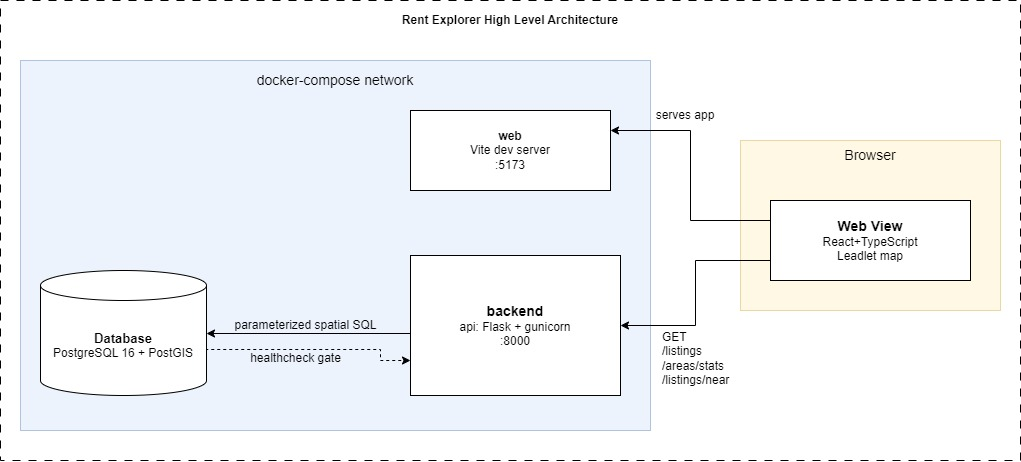
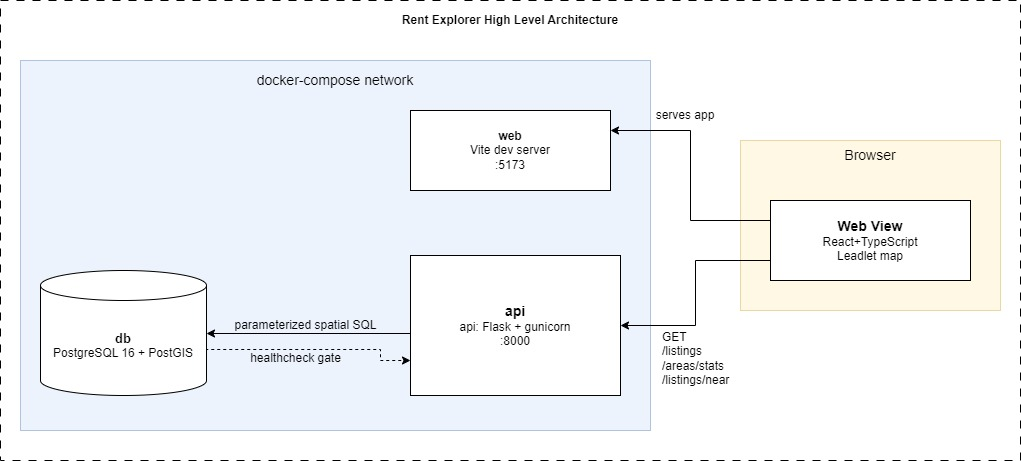
doc: root readme updated with repository cleanup

diff --git a/README.md b/README.md
@@ -1,33 +1,197 @@
-# rent-explorer
-A mini **location-intelligence** tool for the Helsinki metro rental market: an interactive map that lets a non technical user explore ~850 rental listings, filter them, and see how price varies by area.
+# Rent Explorer
 
-# Rent Explorer — Project Context & Conventions
+Interactive map of ~850 Helsinki-metro rental listings: filter by rent / rooms / type, and read median €/m² by area from a choropleth.
 
-## What this is
-A mini location-intelligence tool: an interactive map of ~850 Helsinki-metro
-rental listings that a non-technical user can explore, filter, and use to see how
-price varies by area. Built for a Senior Full-Stack take-home.
-
-## Stack
-- **Backend:** Python + Flask, served by gunicorn.
-- **Database:** PostgreSQL 16 + PostGIS (spatial types, functions, GiST indexes).
-- **DB access:** SQLAlchemy 2.0 + GeoAlchemy2 (ORM models for the tables; endpoint
-  queries written as parameterized `text()` SQL for transparency).
-- **API docs:** Swagger UI via flasgger (`/apidocs`), from YAML docstrings on routes.
-- **Frontend:** React + TypeScript + Vite; Leaflet (react-leaflet) map;
-  TanStack Query for data fetching; d3-scale for the choropleth color scale.
-- **Run:** Docker + docker-compose brings up db + api + web with one command.
+**Stack:** Python + Flask (gunicorn) · PostgreSQL 16 + PostGIS · SQLAlchemy 2.0 + GeoAlchemy2 · React + TypeScript + Vite · Leaflet · TanStack Query.
 
 
-# Architecture
+
+## Architecture Overview
 
 ![Architecture diagram](diagram/architecture.jpg)
 
+Three services, orchestrated by `docker compose`:
 
-- `db` stores listings as `geometry(Point,4326)` and areas as
-  `geometry(Polygon,4326)`, each with a GiST spatial index.
-- `api` exposes three read-only REST endpoints over the spatial data.
-- `web` renders the map: clustered listing pins, an area choropleth + legend,
-  filters, popups, and a live summary panel.
-- Area membership is a **spatial** point-in-polygon join (`ST_Contains`), NOT a
-  foreign key — correct even if boundaries change.
+| Service | Role |
+|---|---|
+| **`db`** | PostgreSQL + PostGIS. Listings as `geometry(Point,4326)`, areas as `geometry(Polygon,4326)`, both GiST-indexed. |
+| **`api`** | Flask. Loads + cleans the data on startup, then serves three read-only REST endpoints. |
+| **`web`** | React + Vite. Map with listing pins, area choropleth + legend, filters, popups, summary panel. |
+
+#
+
+## Getting Started
+
+### 0. Prerequisites
+
+- **Docker Desktop**, running.
+- The two source data files — not committed to git (see [Setup](#setup)).
+- *(Optional)* Node.js, for editor tooling outside the container.
+
+
+### 1. Add the data files
+
+`listings.csv` and `helsinki_areas.geojson` are gitignored and must be supplied manually. Place them in `data/` at the repo root:
+
+```
+data/
+├── listings.csv            # ~850 rental listings
+└── helsinki_areas.geojson  # 12 area polygons
+```
+
+### 2. Configure (optional)
+
+Defaults cover local use. To override, copy the template, see [Configuration](#configuration) for more details.
+
+```bash
+cp .env.example .env
+```
+
+
+### 3. Running the app
+
+```bash
+docker compose up --build -d
+```
+
+| Application | URL |
+|---|---|
+| Webapp (map UI) | http://localhost:5173 |
+| API Backend  | http://localhost:8000 |
+| API Documentation| http://localhost:8000/apidocs |
+
+
+#
+
+## Configuration
+
+It is recommended to use all configuration via environment variables. 
+
+`docker compose` reads `.env` from the repo root (gitignored) and substitutes it into `docker-compose.yml`. `.env.example` is the committed reference. Every variable also has a `${VAR:-default}` fallback in compose, so the stack runs with no `.env` — the defaults below are **local-development values only**.
+
+| Variable | Default | Purpose |
+|---|---|---|
+| `POSTGRES_USER` | `rentdbuser` | Database user |
+| `POSTGRES_PASSWORD` | `rentStrongPassword` | Database password |
+| `POSTGRES_DB` | `rentexplorer` | Database name |
+| `DB_PORT` | `5432` | Host port → Postgres |
+| `API_PORT` | `8000` | Host port → API |
+| `WEB_PORT` | `5173` | Host port → frontend |
+| `VITE_API_URL` | `http://localhost:8000` | API base URL the browser calls |
+| `CORS_ORIGINS` | `http://localhost:5173,http://localhost:3000` | Origins the API accepts |
+
+`DATABASE_URL` is derived from `POSTGRES_USER/PASSWORD/DB` inside compose, so the credentials have a single source and can't drift between `db` and `api`.
+
+> **Production:** supply secrets from a secret manager, restrict `CORS_ORIGINS` to the real frontend origin, set `VITE_API_URL` to the public API URL, and serve a static `vite build` behind a CDN instead of the dev server.
+
+#
+
+## How it works
+
+### Data model
+
+Two spatial tables, joined by geometry — there is no `area_code` foreign key on `listings`. Area membership is resolved at query time via `ST_Contains`, so it stays correct if boundaries change.
+
+```mermaid
+erDiagram
+    AREAS ||--o{ LISTINGS : "ST_Contains(area.geom, listing.geom)"
+    AREAS {
+        text area_code PK
+        text area_name
+        geometry_Polygon_4326 geom "GiST index"
+    }
+    LISTINGS {
+        text listing_id PK
+        integer rooms "nullable"
+        numeric size_m2 "nullable"
+        integer rent_eur "nullable"
+        text property_type "apartment|studio|townhouse"
+        date listed_date
+        geometry_Point_4326 geom "GiST index, NOT NULL"
+    }
+```
+
+### API reference
+
+| Method | Path | Purpose |
+|---|---|---|
+| GET | `/listings` | Filter by map **bbox** (`min_lng,min_lat,max_lng,max_lat`) + `rent_min`, `rent_max`, `rooms`, `property_type`. |
+| GET | `/areas/stats` | **GeoJSON** FeatureCollection: per-area `median_rent`, `median_eur_per_m2`. |
+| GET | `/listings/near` | Listings within `radius_m` of `lat,lng`, nearest first. |
+| GET | `/health` | Liveness + DB check. |
+
+```
+GET /listings?min_lng=24.90&min_lat=60.15&max_lng=25.00&max_lat=60.25
+GET /listings?rent_min=1000&rent_max=1500&property_type=apartment
+GET /listings/near?lat=60.17&lng=24.94&radius_m=1000
+```
+
+Interactive docs at `/apidocs`.
+
+### Data cleaning
+
+Cleaning runs once at load time and logs every decision. Rule: **no usable coordinate → drop; missing attribute → keep** (SQL aggregates skip the `NULL`). Load result: `849 inserted, 1 dropped, 3 kept-with-null`.
+
+| Row | Issue | Action |
+|---|---|---|
+| `L0780` | latitude `61.05`, ~83 km north of the metro | Dropped |
+| `L0452` | missing `rooms` | Kept; `rooms = NULL` |
+| `L0490` | missing `rent_eur` | Kept; excluded from rent medians |
+| `L0687` | missing `size_m2` | Kept; excluded from €/m² |
+
+
+
+## Design decisions
+
+
+| Decision | Why | Trade-off |
+|---|---|---|
+| **Flask** over FastAPI | Matches the platform stack | No auto API docs, added Swagger manually, additional time and efforts were the trade-offs |
+| **`text()` SQL** over ORM query chains | Keeps the PostGIS calls visible and easy to follow | Less ORM abstraction |
+| **Swagger via flasgger** (not required) | Self-documenting, try-it-live API at `/apidocs` | Extra dependency |
+| **gunicorn**, not the Flask dev server | Production-grade WSGI server | — |
+| **Frontend runs inside `docker compose`**, not a separate host `npm` server | One command (`docker compose up`) brings up db + api + web; reviewer needs no local Node, no version drift, startup order handled by `depends_on` | Runs the Vite dev server in-container (hot reload via mounted volume), not a static production build |
+| **Listings as the primary layer**, choropleth as a faint background tint | User's main question is "where are the listings"; price is supporting context | Exact area price is less prominent (opacity slider restores it) |
+| **Cluster listings when zoomed out** | ~850 pins overlap into an unreadable blob at metro zoom; clusters show counts and split apart as you zoom in | Individual pins only appear once zoomed in |
+
+### One non-trivial decision
+
+**I clean the messy rows once at load time, not inside every query.** The rule:
+
+- **No usable location → drop the row.** A missing or out-of-area coordinate
+  (e.g. `L0780` at lat 61.05, ~83 km north) can't go on a map, so it never enters
+  the database.
+- **Missing only an attribute → keep the row, store `NULL`.** It still has a valid
+  location. SQL aggregates skip `NULL`, so a missing rent just doesn't count toward
+  that area's median — no distortion.
+
+**Why load-time:** the database then holds only clean rows, so every endpoint
+stays simple instead of repeating the same validation (and risking two endpoints
+doing it differently). The cost is that stored data no longer mirrors the raw file
+one-to-one — so the loader logs every drop and keep, making it auditable.
+
+### With more time
+
+- Reject out-of-area rows against the real polygons, not a metro rectangle.
+- Radius-search UI (the `/listings/near` endpoint already exists).
+- Static production frontend build + production compose.
+- CI running the test suite.
+- URL-synced filters and viewport so a given map view is shareable/bookmarkable.
+
+---
+
+## Project structure
+
+```
+rent-explorer/
+├── docker-compose.yml          # db + api + web
+├── .env.example                # env var reference
+├── data/                       # source files (gitignored)
+├── backend/                    # Flask API
+│   ├── app.py, config.py, db.py, models.py, schema.sql, load_data.py
+│   ├── validation.py, routes/, tests/
+│   └── Dockerfile, entrypoint.sh, requirements.txt
+└── frontend/                   # React + TypeScript map UI
+    ├── src/ (api/, hooks/, lib/, components/, App.tsx)
+    └── Dockerfile, package.json, vite.config.ts
+```